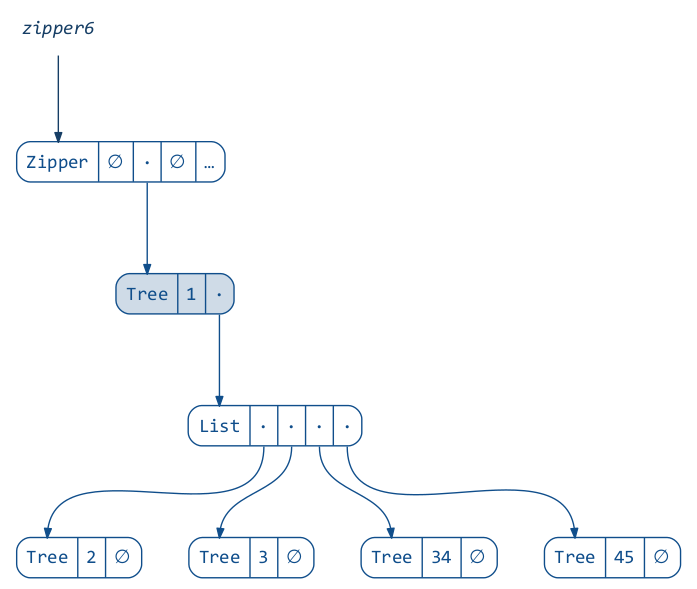
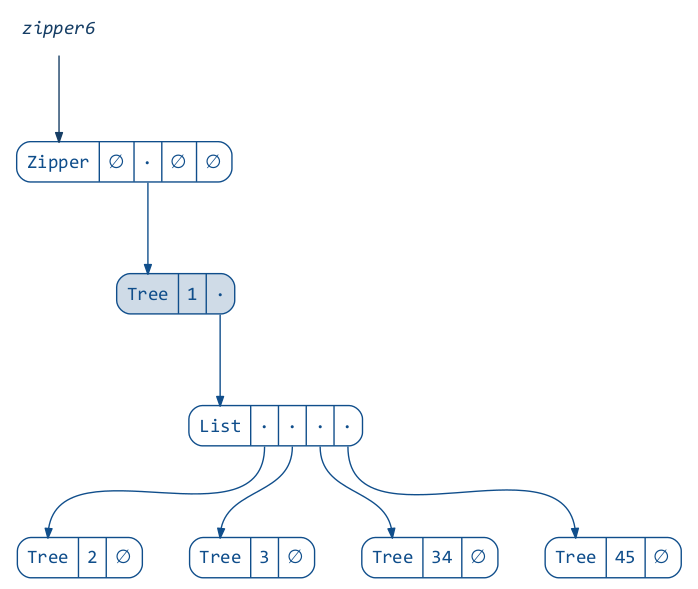
Show edges connected to elided objects if they are explicitly included
Also:
* Made `ToRefTree` and `GenericToRefTree` invariant.
* Removed `SimplifiedInstances.zipper`.

diff --git a/DEMO.md b/DEMO.md
@@ -303,7 +303,7 @@ import monocle.macros.GenLens
 
 scala> val salaryLens = GenLens[Employee](_.salary)
 warning: there was one feature warning; re-run with -feature for details
-salaryLens: monocle.Lens[reftree.demo.Data.Employee,Long] = $anon$1@67e29ee6
+salaryLens: monocle.Lens[reftree.demo.Data.Employee,Long] = $anon$1@434cc760
 
 scala> salaryLens.get(startup.founder)
 res11: Long = 4000
@@ -323,7 +323,7 @@ We can also define a lens that focuses on the startup’s founder:
 ```scala
 scala> val founderLens = GenLens[Startup](_.founder)
 warning: there was one feature warning; re-run with -feature for details
-founderLens: monocle.Lens[reftree.demo.Data.Startup,reftree.demo.Data.Employee] = $anon$1@7a6b2504
+founderLens: monocle.Lens[reftree.demo.Data.Startup,reftree.demo.Data.Employee] = $anon$1@7e407bbd
 
 scala> founderLens.get(startup)
 res14: reftree.demo.Data.Employee = Employee(Michael,4000)
@@ -339,7 +339,7 @@ It’s not apparent yet how this would help, but the trick is that lenses can be
 
 ```scala
 scala> val founderSalaryLens = founderLens composeLens salaryLens
-founderSalaryLens: monocle.PLens[reftree.demo.Data.Startup,reftree.demo.Data.Startup,Long,Long] = monocle.PLens$$anon$1@5326daf0
+founderSalaryLens: monocle.PLens[reftree.demo.Data.Startup,reftree.demo.Data.Startup,Long,Long] = monocle.PLens$$anon$1@2ce83973
 
 scala> founderSalaryLens.get(startup)
 res16: Long = 4000
@@ -368,10 +368,10 @@ We can use it to give our founder a funny name:
 ```scala
 scala> val employeeNameLens = GenLens[Employee](_.name)
 warning: there was one feature warning; re-run with -feature for details
-employeeNameLens: monocle.Lens[reftree.demo.Data.Employee,String] = $anon$1@e3a4de7
+employeeNameLens: monocle.Lens[reftree.demo.Data.Employee,String] = $anon$1@6b556b92
 
 scala> val founderVowelTraversal = founderLens composeLens employeeNameLens composeTraversal vowelTraversal
-founderVowelTraversal: monocle.PTraversal[reftree.demo.Data.Startup,reftree.demo.Data.Startup,Char,Char] = monocle.PTraversal$$anon$2@410e8ee6
+founderVowelTraversal: monocle.PTraversal[reftree.demo.Data.Startup,reftree.demo.Data.Startup,Char,Char] = monocle.PTraversal$$anon$2@40efc410
 
 scala> founderVowelTraversal.modify(v => v.toUpper)(startup)
 res20: reftree.demo.Data.Startup = Startup(Acme,Employee(MIchAEl,4000),List(Employee(Adam,2100), Employee(Bella,2100), Employee(Chad,1980), Employee(Delia,1850)))
@@ -573,11 +573,7 @@ val zipper2 = zipper1.moveDownLeft
 The new Zipper links to the old one,
 which will allow us to return to the root of the tree when we are done applying changes.
 This link however prevents us from seeing the picture clearly.
-Let’s elide the parent field:
-
-```scala
-import reftree.contrib.SimplifiedInstances.zipper
-```
+Let’s look at the second zipper alone:
 
 ```scala
 diagram(zipper2).render("zipper2b")

diff --git a/demo/src/main/tut/DEMO.md b/demo/src/main/tut/DEMO.md
@@ -532,11 +532,7 @@ val zipper2 = zipper1.moveDownLeft
 The new Zipper links to the old one,
 which will allow us to return to the root of the tree when we are done applying changes.
 This link however prevents us from seeing the picture clearly.
-Let’s elide the parent field:
-
-```tut:silent
-import reftree.contrib.SimplifiedInstances.zipper
-```
+Let’s look at the second zipper alone:
 
 ```tut:silent
 diagram(zipper2).render("zipper2b")
